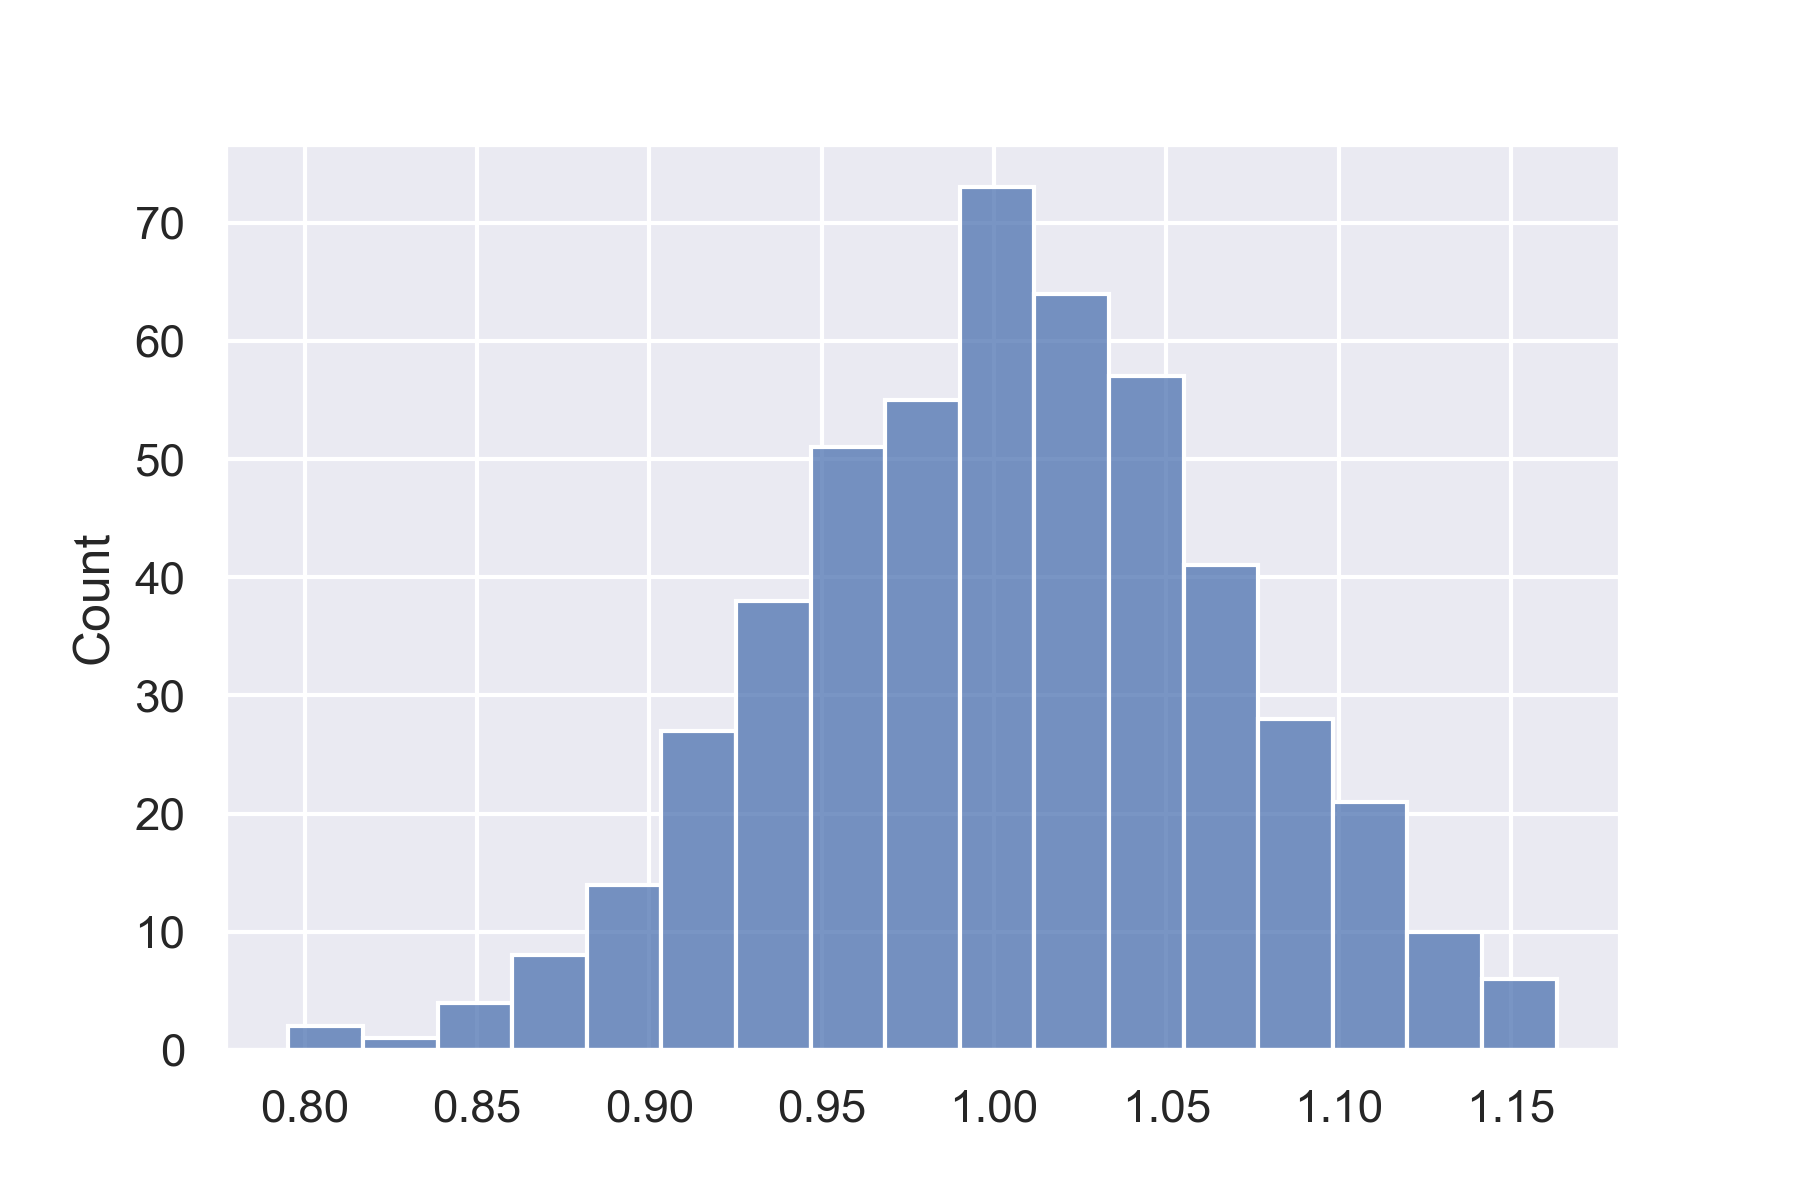
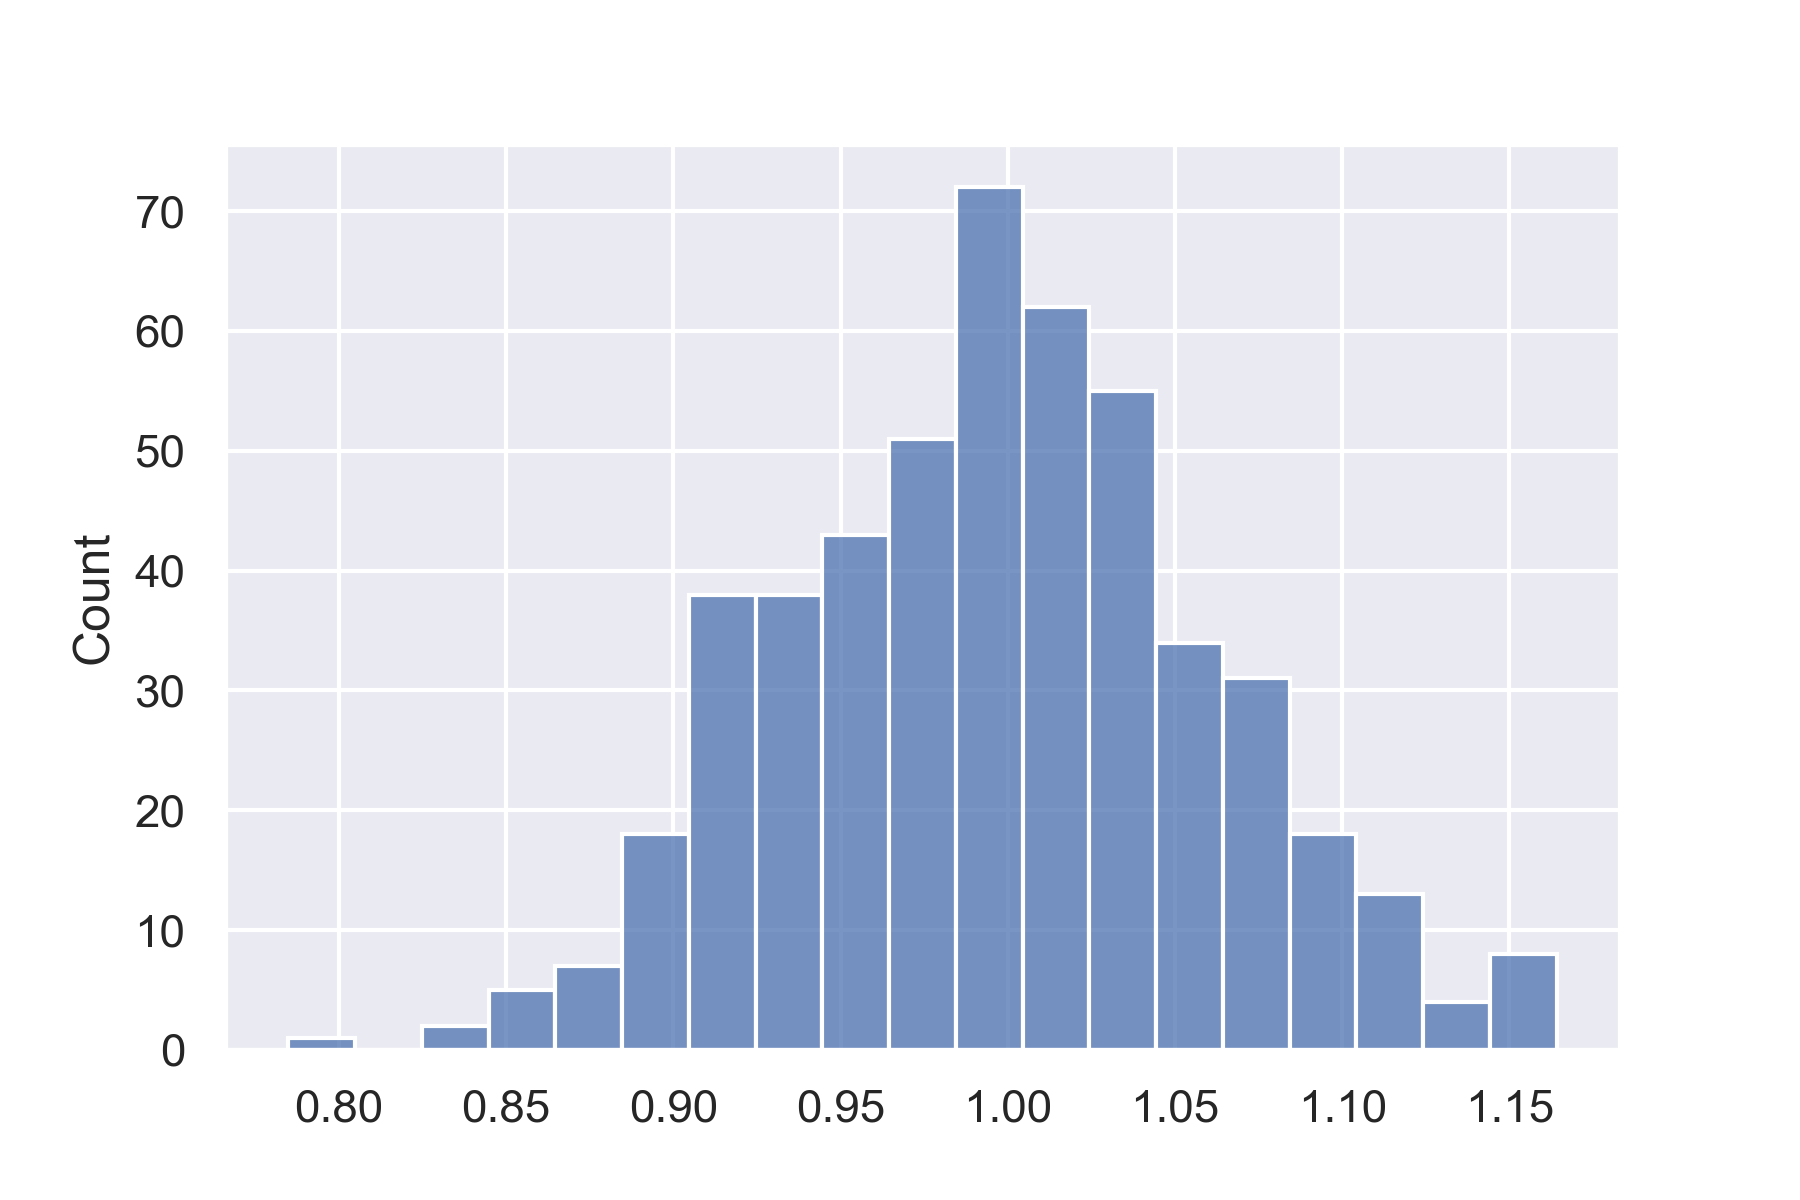
Bootstrap

diff --git a/docs/capitulos/14Estadistica.md b/docs/capitulos/14Estadistica.md
@@ -22,6 +22,7 @@ estadísticos usados en el curso.
 from scipy.stats import norm
 from matplotlib import pylab as plt
 import numpy as np
+import pandas as pd
 import seaborn as sns
 sns.set_theme()
 ```
@@ -52,28 +53,36 @@ propiedad de la varianza:
 $$\mathbb V(\sum_i a_i \mathcal X_i) = \sum_i a_i^2 \mathbb V(\mathcal X_i),$$
 
 donde $$a_i$$ representa una constante y las variables aleatorias $$\mathcal X$$ son
-independientes. En estas condiciones se observa que para el caso del error estándar de
+independientes. En lugar de utilizar la definición asumiendo la realización de las
+variables aleatorias, esto es, cuando $$\mathcal D$$ tiene valores, se define la media
+con respecto a $$N$$ variables aleatorias, i.e., $$\hat \mu = \frac{1}{N} \sum_i^N \mathcal X_i.$$
+En estas condiciones se observa que para el caso del error estándar de
 la media la constante es $$\frac{1}{N}$$ y las variables son independientes de acuerdo a la forma
 que se construyó $$\mathcal D$$ entonces
 
 $$\begin{eqnarray}
-\sqrt{\mathbb V(\hat \mu)} &=& \sqrt{\mathbb V(\frac{1}{N} \sum_{x \in \mathcal D} x)} \\
-&=& \sqrt{ \sum_{x \in \mathcal D} \frac{1}{N^2}  \mathbb V( x)}\\
-&=& \sqrt{ \frac{1}{N^2} \sum_{x \in \mathcal D} \sigma^2} \\
+\sqrt{\mathbb V(\hat \mu)} &=& \sqrt{\mathbb V(\frac{1}{N} \sum_i^N \mathcal X_i)} \\
+&=& \sqrt{ \sum_i^N \frac{1}{N^2}  \mathbb V(\mathcal X_i)}\\
+&=& \sqrt{ \frac{1}{N^2} \sum_i^N \sigma^2} \\
 &=& \sqrt{ \frac{N}{N^2} \sigma^2} \\
-&=& \sqrt{ \frac{\sigma^2}{N}}, 
+&=& \sqrt{ \frac{\sigma^2}{N}} = \frac{\sigma}{\sqrt{N}}, 
 \end{eqnarray}$$
 
-donde $$\sigma^2$$ es la varianza de la distribución usada para generar $$\mathcal D$$. 
+donde $$\sigma^2$$ es la varianza de la distribución. 
+Es importante notar que $$\mathbb V(X_i)$$ es independiente de $$i$$ dado $$\mathcal X_i \sim F$$
+para cualquier $$i$$, donde la distribución $$F$$ tiene una varianza $$\sigma^2$$ por lo tanto
+$$\mathbb V(X_i)=\sigma^2.$$ 
+
 
 ## Ejemplo
+{: #sec:ejemplo-normal-1d }
 
 El siguiente ejemplo complementa la información al presentar el
 error estándar de la media cuando los datos vienen de una distribución
 Gausiana. Suponiendo que se tiene $$1000$$ muestras de una
 distribución Gausiana $$\mathcal N(1, 4),$$ i.e., $$\mu=1$$ y $$\sigma=2$$.
 La error estándar de estimar la media con esos datos está dado por
-$$\mathbb V(\hat \mu) = \sqrt{\frac{\sigma^2}{N}} = \sqrt{\frac{4}{1000}}=0.0632.$$ 
+$$\mathbb V(\hat \mu) = \frac{\sigma}{\sqrt{N}} = \frac{2}{\sqrt{1000}}=0.0632.$$ 
 
 Continuado con el ejemplo, se simula la generación de esta población
 de $$1000$$ elementos. El primer paso es iniciar la clase `norm` 
@@ -97,7 +106,7 @@ mu = [x.mean() for x in D]
 
 El error estándar es la desvicación estándar de `mu`,
 el cual se puede calcular con la siguiente instrucción. `se` tiene 
-un valor de $$0.0637$$, que es similar al obtenido mediante
+un valor de $$0.0634$$, que es similar al obtenido mediante
 $$\mathbb V(\hat \mu).$$
 
 ```python
@@ -116,22 +125,87 @@ sns.histplot(mu)
 plt.savefig('normal_mean.png', dpi=300)
 -->
 
-<!--
-![Histograma del error](/AprendizajeComputacional/assets/images/normal_mean.png)
+![Histograma de la media](/AprendizajeComputacional/assets/images/normal_mean.png)
+
 
 # Bootstrap
 {: #sec:bootstrap }
 
-```python
-D = X[0]
-```
+Existen ocasiones donde no se cuenta con una ecuación cerrada para 
+$$\mathbb V(\hat \theta)$$, un ejemplo sería la mediana. En aquellas
+estadísticas donde no se tenga el error estándar no se pueda calcular
+analíticamente se puede utilizar Bootstrap. 
+
+Bootstrap es un procedimiento que permite calcular el error 
+estándar. Suponiendo que se la estadística se calcula mediante la realización
+de $$N$$ variables aleatorias, $$\mathcal X \sim F$$, es decir, 
+$$\theta = g(\mathcal X_1, \mathcal X_2, \ldots, \mathcal X_N).$$ 
+Por ejemplo, la media es 
+$$g(\mathcal X_1, \mathcal X_2, \ldots, \mathcal X_N) = \frac{1}{N} \sum_i^N X_i.$$
+
+El Bootstrap simula la distribución $$\theta$$ mediante la selección
+con remplazo de $$N$$ elementos del conjunto de la muestra
+$$\mathcal D = (x_1, x_2, \ldots, x_n)$$ donde $$x_i \sim F$$.
+Es decir, se genera un nuevo conjunto
+$$\mathcal D_j = (x_{j_1}, x_{j_2}, \ldots, x_{j_n})$$ donde
+$$x_{j_1}$$ podría ser $$x_4$$ de $$\mathcal D$$ y dado que se 
+selecciona con reemplazo entonces 
+$$x_4$$ podría aparecer otra vez en $$\mathcal D_j.$$ 
+Utilizando $$\mathcal D_j$$ se puede estimar la estadística  
+$$\hat \theta_j = g(x_{j_1}, x_{j_2}, \ldots, x_{j_n}).$$ Bootstrap repite el 
+proceso anterior $$B$$ donde en cada iteración se selecciona con reemplazo
+$$N$$ veces $$\mathcal D$$. Utilizando las $$\theta_j$$ calculadas se
+estima $$\mathbb V(\theta)$$ con la siguiente ecuación
+
+$$\mathbb V(\hat \theta) = \frac{1}{B} \sum_{j=1}^B (\hat \theta_j - \frac{1}{B} \sum_k^B \hat \theta_k)^2.$$
+
+## Ejemplo
+
+Utilizando los datos generados en el [ejemplo anterior](#sec:ejemplo-normal-1d)
+se puede calcular el error estándar de la mediana. El primer paso 
+es tener el conjunto $$\mathcal D$$ el cual puede ser cualquier renglón
+de los 500 de la variable `D`, por simplicidad se toma el primero 
+como se muestra a continuación.
 
 ```python
-S = np.random.randint(D.shape[0], size=(500, D.shape[0]))
-B = [(D[s]).mean() for s in S]
+D_mediana = D[0]
+```
+
+La variable `D_mediana` tiene la muestra $$\mathcal D$$ con la que se trabajará
+para estimar el error estándar de la mediana. Se tienen que generar $$B$$ repeticiones
+de muestrar $$\mathcal D$$ $$N$$ veces con reemplazo. Esto se puede implementar
+usando índices y números aletorios de $$[0, N)$$ considerando que en Python
+el primer índice es $$0$$. Este procedimiento se muestra en la primera linea
+del siguiente código. El arreglo `S` contiene los índices para realizar las
+$$B$$ muestras, en la segunda linea se itera por los renglones de `S` y en
+cada operación se calcula la mediana. Es decir, en cada iteración se está 
+calculando un $$\hat \theta_i$$ que corresponde a la mediana. Finalmente,
+se calcula la desviación estándar de la lista `B` y ese valor corresponde
+a error estándar de la mediana. `se` tiene un valor de $$0.0968$$
+
+```python
+S = np.random.randint(D_mediana.shape[0],
+                      size=(500, D_mediana.shape[0]))
+B = [np.median(D_mediana[s]) for s in S]
 se = np.std(B)
 ```
 
-$$0.0623$$
+Considerando que se generaron $$500$$ poblaciones de $$1000$$ elementos
+que se encuentra en la variable `D` se puede visualizar el histograma
+de las medianas calculadas con `D` y aquellas obtenidas con Bootstrap.
+Se guardan estos dos valores en un `DataFrame` para posteriormente 
+graficar el histograma, como se muestra en el siguiente código y figura.
 
+
+```python
+df = pd.DataFrame(dict(Bootstrap=B, 
+                       Muestra=[np.median(x) for x in D]))
+sns.histplot(df)                       
+```
+<!--
+plt.savefig('normal_median.png', dpi=300)
 -->
+
+![Histograma de la mediana](/AprendizajeComputacional/assets/images/normal_median.png)
+
+

diff --git a/docs/capitulos/02Teoria_Decision.md b/docs/capitulos/02Teoria_Decision.md
@@ -164,7 +164,7 @@ Finalmente, es importante mencionar que $$P(\cdot \mid x)$$ cumple con todos los
 probabilidad, para este caso, suponiendo $$K$$ clases entonces $$\sum_i^K P(C_i \mid x) = 1$$.
 -->
 
-## Ejemplo
+## Problema Sintético
 {: #sec:tres-normales } 
 
 Con el objetivo de entender el funcionamiento del Teorema de Bayes, esta sección
@@ -223,6 +223,8 @@ se puede visualizar las tres nubes de puntos, donde el color indica la clase.
 
 {: #fig:gaussian_3classes }
 ![Tres clases generadas por tres distribuciones gausianas multivariadas](/AprendizajeComputacional/assets/images/gaussian_3classes.png)
+
+## Predicción
 
 Quitando la evidencia del Teorema de Bayes se observa que 
 $$\mathbb P(\mathcal Y \mid \mathcal X) \propto \mathbb P(\mathcal X \mid \mathcal Y) \mathbb P(\mathcal Y)$$.
@@ -343,16 +345,21 @@ se_formula = np.sqrt(error * (1 - error) / 3000)
 
 teniendo un valor de $$0.00196$$. 
 
-Existen casos donde el error estándar no se puede estimar analíticamente como es el 
-caso de la media en una distribución Bernoulli. En esos casos se puede estimar mediante
-la técnica de Bootstrap. Esta técnica requiere que los datos con los que se
-estima el parámetro se seleccionen con remplazo $$N$$ veces, en la primera linea
-se generan 500 repeticiones del tamaño de `y` de números enteros entre $$[0, m)$$ donde
-$$m$$ es el tamaño de `y`. Por cada iteración, se estima el parámetro de interés. En
-la segunda linea se itera por `S` calculando el error con la muestra indicada. Finalmente
-se calcula la desviación estándar de los parámetros estimados en el paso anterior `B`, 
-lo cual se observa en la tercera linea y ese valor corresponde al error estándar. 
-El error estándar calculado mediante Bootstrap es $$0.00194.$$
+Aunque el error estándar del parámetro $$p$$ de la distribución Bernoulli si 
+se puede calcular analíticamente, se usará la técnica de 
+[Bootstrap](/AprendizajeComputacional/capitulos/14Estadistica/#sec:bootstrap)
+para ejemplificar aquellas estadísticas donde no se puede. 
+Esta técnica requiere generar $$B$$ muestras de $$N$$ elementos con remplazo
+de los datos. En este caso los datos son los errores entre `y` y `prediccion`. 
+Siguiendo el método presentado en el 
+[apéndice](/AprendizajeComputacional/capitulos/14Estadistica/#sec:bootstrap)
+se generan los índices para generar la muestra como se observa en la primera
+línea del siguiente código. En la segunda línea se hacen las $$B$$ repeticiones
+las cuales consisten en calcular $$\hat p$$. Se puede observar como se usa 
+directamente `y` y `prediccion` junto con el arreglo de índices `s`
+para calcular la media del error. Finalmente se calcula la desviación estándar 
+de `B` (tercera línea) y ese valor corresponde al error estándar. 
+El error estándar, `se`, calculado es $$0.00194.$$
 
 
 ```python

diff --git a/docs/index.md b/docs/index.md
@@ -63,4 +63,5 @@ El curso trata de ser auto-contenido, es decir, no debería de ser necesario lee
 - [Probabilistic Machine Learning: An Introduction. Kevin Patrick Murphy. MIT Press](https://probml.github.io/pml-book/book1.html).
 - An Introduction to Statistical Learning with Applications in R. Gareth James, Daniela Witten, Trevor Hastie, and Robert Tibshirani. Springer Texts in Statistics.
 - All of Statistics. A Concise Course in Statistical Inference. Larry Wasserman. MIT Press.
+- An Introduction to the Bootstrap. Bradley Efron and Robert J. Tibshirani. Monographs on Statistics and Applied Probability 57. Springer-Science+Business Media. 
 - Understanding Machine Learning: From Theory to Algorithms. Shai Shalev-Shwartz and Shai Ben-David. Cambridge University Press.
